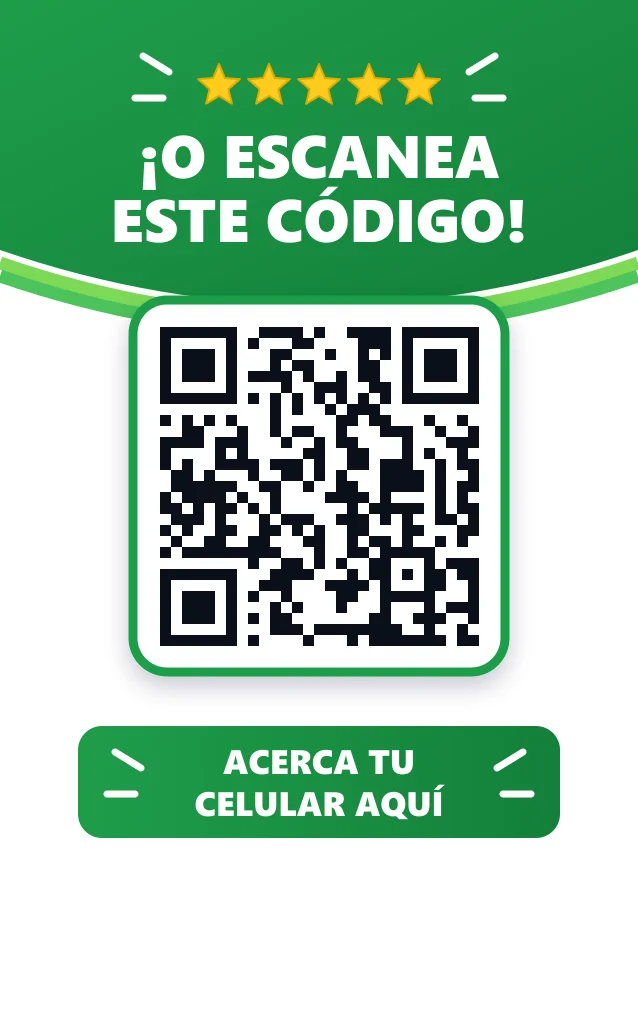
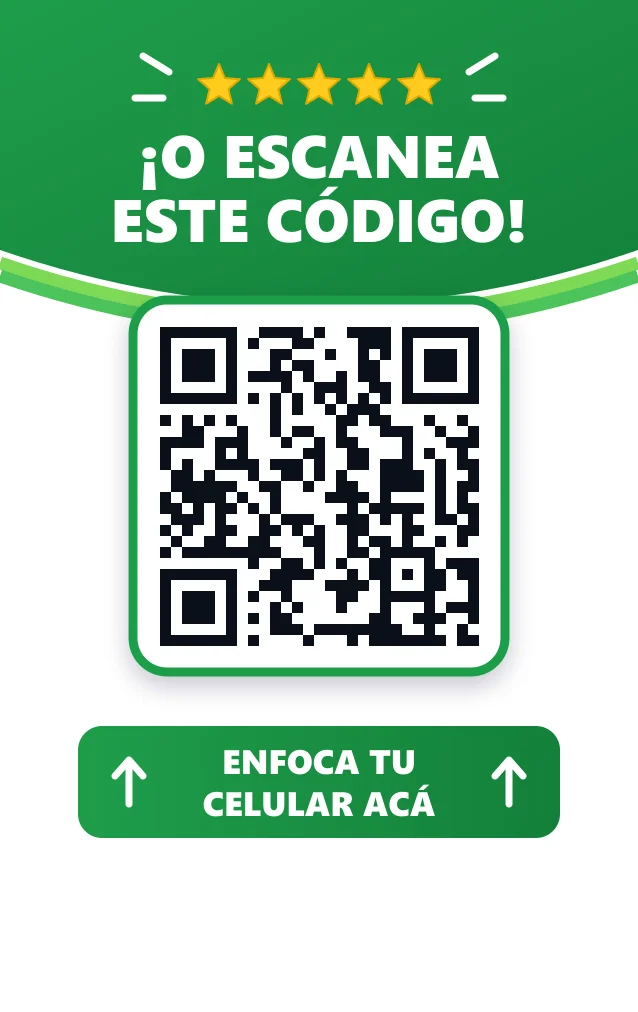
Botón del reverso de la tarjeta NFC: "Enfoca tu celular acá" con flechas
Pedido de Samuel: el botón de abajo dice ahora "Enfoca tu celular acá", y
las rayitas de los lados se cambiaron por dos flechas que apuntan hacia
arriba, al QR. Las rayitas de las estrellas de arriba se quedan.

Changed region(s): [[0.2978, 0.7352, 0.7147, 0.8271], [0.1489, 0.7352, 0.2382, 0.7964], [0.7743, 0.7352, 0.8339, 0.7964]]

diff --git a/components/sections/TarjetaNfc.tsx b/components/sections/TarjetaNfc.tsx
@@ -24,7 +24,7 @@ import revTiktok from "@/public/tarjeta-nfc-reverso-tiktok.webp";
 // cualquier visitante curioso le dejaría una reseña sin haber ido nunca, que es
 // justo lo que Google castiga. Ver lib/tarjetas.ts.
 const ALT_REVERSO =
-  "Parte de atrás de la tarjeta: ¡O escanea este código! Un código QR, y abajo: acerca tu celular aquí.";
+  "Parte de atrás de la tarjeta: ¡O escanea este código! Un código QR, y abajo: enfoca tu celular acá, con flechas que apuntan al código.";
 
 // Los cinco diseños que Samuel escogió para las tarjetas (octubre de 2026). Se
 // muestra uno grande y los demás como miniaturas para cambiar entre ellos:
